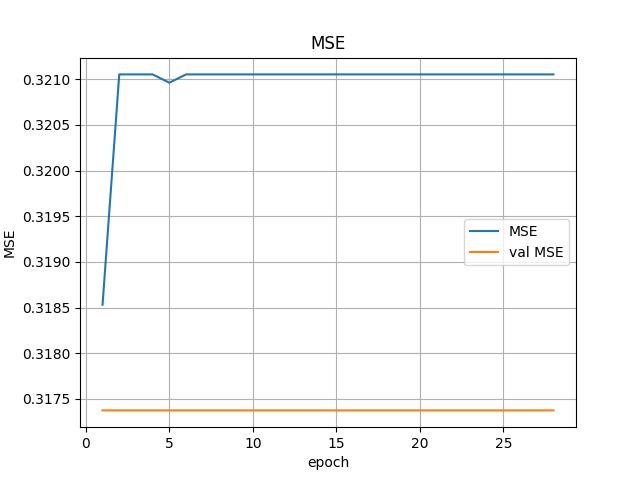
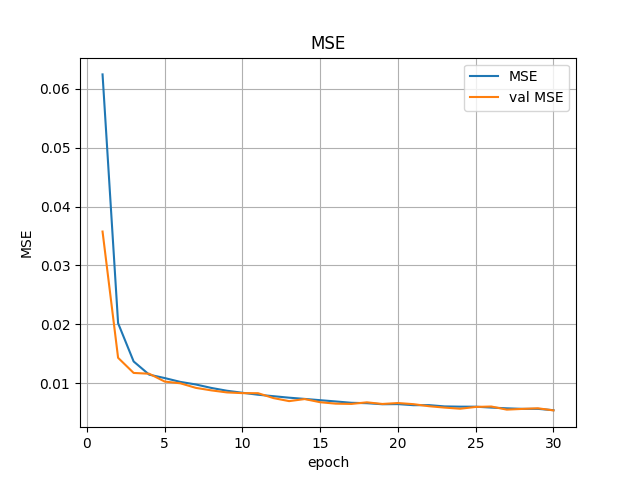
put the lr at 0.001

diff --git a/src/train.py b/src/train.py
@@ -63,7 +63,6 @@ def train(config):
         print('epoch:' + str(epoch))
         train_loss = []
         # train_metrics = np.zeros(len(metrics_name), dtype=float)
-        virtual_batch_counter = 0
 
         train_range = tqdm(train_generator)
         for (lr_image, hr_image) in train_range:
@@ -74,17 +73,13 @@ def train(config):
 
             loss = criterion(y_pred, y_true)
             loss.backward()
+            optimizer.step()
+            optimizer.zero_grad()
 
             train_loss.append(loss.item())
 
             train_range.set_description("TRAIN -> epoch: %4d || loss: %4.4f" % (epoch, np.mean(train_loss)))
             train_range.refresh()
-
-            if virtual_batch_counter % config.train.virtual_batch_size == 0 or virtual_batch_counter + 1 == len(train_generator):
-                optimizer.step()
-                optimizer.zero_grad()
-
-            virtual_batch_counter += 1
         
         train_loss = np.mean(train_loss)
 
@@ -107,7 +102,7 @@ def train(config):
                 loss = criterion(y_pred, y_true)
                 val_loss.append(loss.item())
 
-                val_range.set_description("VAL -> epoch: %4d || val_loss: %4.4f" % (epoch, np.mean(val_loss)))
+                val_range.set_description("VAL   -> epoch: %4d || val_loss: %4.4f" % (epoch, np.mean(val_loss)))
                 val_range.refresh()
                 # val_metrics += compute_metrics(config, y_true, y_pred, argmax_axis=-1)
 

diff --git a/README.md b/README.md
@@ -71,13 +71,8 @@ python main.py --mode <mode> --config_path <path to your config>
 
 # Results
 
-we ran several experiments that you can find in the 
- `logs` file:
+we ran several experiments that you can find in the  `logs` file:
 
-- `experiment_0`: training on the original images which are not of the same size and therefore with a batch size of 1
+- `experiment_0`: training on few patches (one patche with size 120*120 per image) to see the result
 
 <p align="center"><img src=logs/experiment_0/MSE.png><p>
-
-- `experiment_1`: training with patches (one patch per image)
-
-<p align="center"><img src=logs/experiment_1/MSE.png><p>
